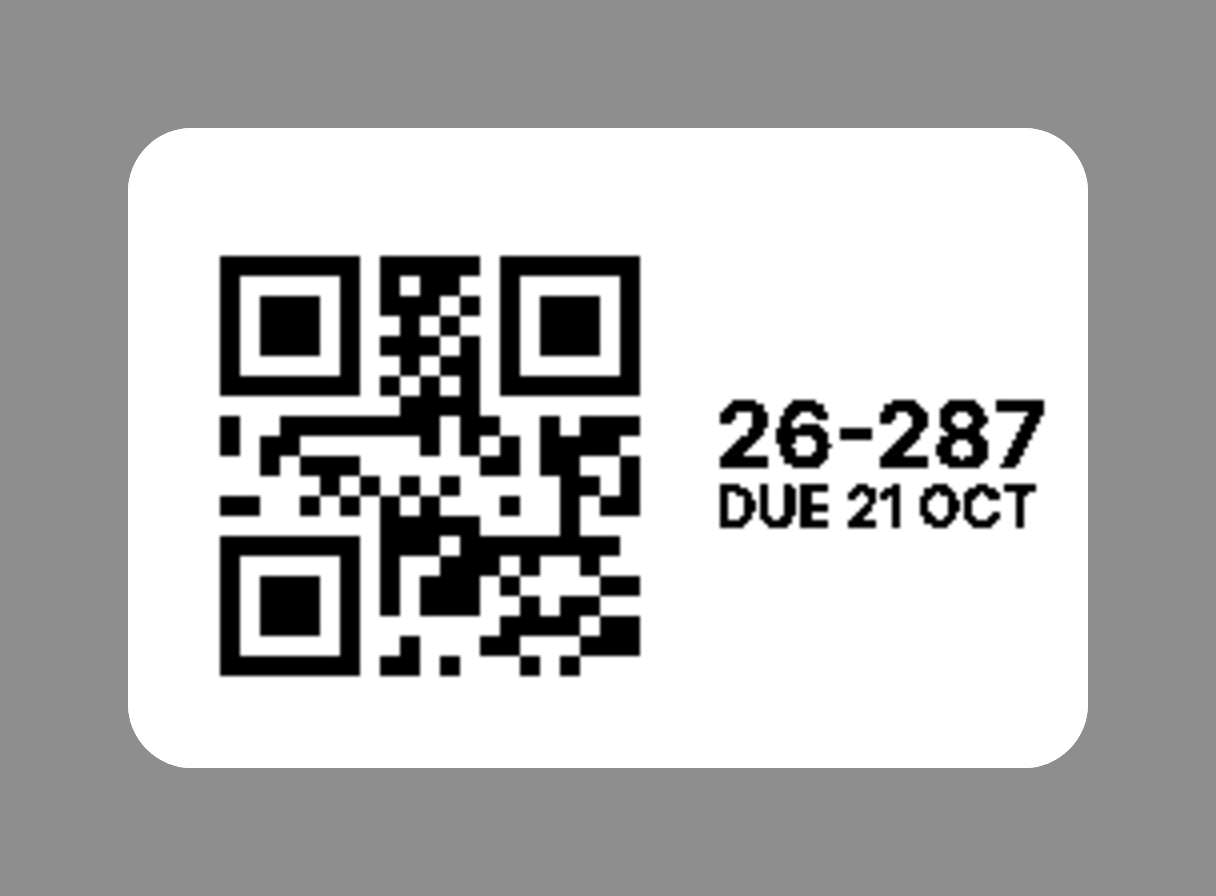
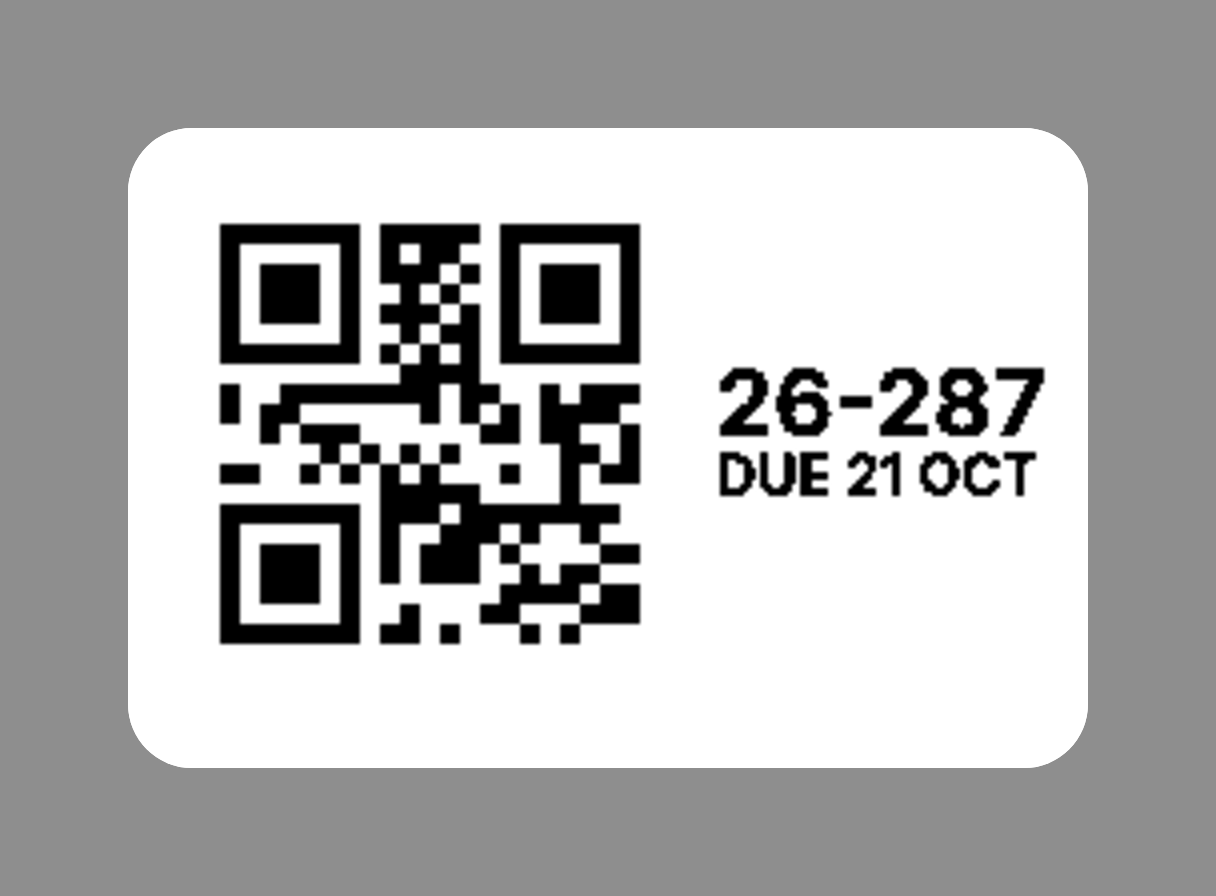
Move the B31 default 0.5 mm up.
The calibration print has more blank paper above the content than below it. Horizontal stays 2 mm left of the 600 px head centre, and a saved per-printer offset is still added on top.

Changed region(s): [[0.1562, 0.25, 0.5312, 0.7812], [0.5938, 0.4062, 0.875, 0.5938]]

diff --git a/sim/print-sim.js b/sim/print-sim.js
@@ -108,7 +108,7 @@ eq(clearMargin(long) && clearMargin(wide), 'spec ink stays about 1 mm inside the
 const cal = L.render({ kind: 'cal_tag', model: 'B31' });
 eq(cal.width === 600 && cal.height === 560 && cal.lines.length === 0 && cal.qr === '', 'calibration has no JO text and no name');
 function darkAt(img, x, y) { return img.data[(y * img.width + x) * 4] === 0; }
-eq(cal.offsetX === 164 && !darkAt(cal, cal.offsetX + 4, 4) && darkAt(cal, cal.offsetX + 4, 8), 'the B31 calibration border is 2 mm left of the head centre and 0.5 mm down');
+eq(cal.offsetX === 164 && darkAt(cal, cal.offsetX + 20, 0) && !darkAt(cal, cal.offsetX + 20, 4), 'the B31 calibration border is 2 mm left of the head centre and 0.5 mm up');
 const calB1 = L.render({ kind: 'cal_jo', model: 'B1' });
 eq(calB1.offsetX === 72 && darkAt(calB1, calB1.offsetX + 4, 4), 'B1 calibration stays centred on its head');
 
@@ -150,7 +150,7 @@ eq(fs.existsSync(path.join(outDir, 'b31-jo-card.png')), 'PNG renders were writte
 const base = L.render(Object.assign({ model: 'B31' }, card));
 const moved = L.render(Object.assign({ model: 'B31', shiftX: L.px(0.5), shiftY: L.px(-1) }, card));
 eq(moved.offsetX === base.offsetX + L.px(0.5) && moved.qrBox.y === base.qrBox.y - L.px(1), 'a saved offset moves the JO card on the head');
-eq(base.offsetX === Math.round((600 - 240) / 2) + L.px(-2) && L.placeBias('B31').y === L.px(0.5) && L.placeBias('B1').x === 0, 'a B31 label sits 2 mm left of the 600 px head centre and 0.5 mm down');
+eq(base.offsetX === Math.round((600 - 240) / 2) + L.px(-2) && L.placeBias('B31').y === L.px(-0.5) && L.placeBias('B1').x === 0, 'a B31 label sits 2 mm left of the 600 px head centre and 0.5 mm up');
 const cardView = L.preview(base, { scale: 4, smooth: true });
 const tagView = L.preview(L.render(Object.assign({ model: 'B1' }, tag)), { scale: 4, smooth: true });
 const pad = L.px(4) * 4, rad = L.px(2) * 4;
@@ -247,8 +247,8 @@ eq(/printQueue:\s*1/.test(app) && !/printQueue/.test(cached), 'printQueue is a c
 eq(!/printMark\s*:\s*1/.test(app) && !/printEnqueue\s*:\s*1/.test(app) && !/printReprint\s*:\s*1/.test(app), 'print writes are not client reads');
 eq(fast.includes('priceJobCost: 1, printQueue: 1') && !fast.includes('dashboard: 1, printQueue'), 'Fast READS gains printQueue and FAST.CACHE does not');
 eq(dash.includes('listUsers: 1, printQueue: 1') && !dash.includes("action !== 'printQueue'"), 'DashCache READS gains printQueue and the dashboard spec does not');
-eq(index.includes('print.js?v=7') && index.includes('print-label.js?v=6') && index.includes('nav.js?v=20') && index.includes('app.js?v=30') && index.includes('settings.js?v=19') && index.includes('print.css?v=5') && index.includes('app.css?v=38') && index.includes('settings.css?v=10'), 'print assets are cache-busted');
-eq(read('nav.js').includes('print-label.js?v=6') && read('nav.js').includes('print.js?v=7') && read('nav.js').includes('menuHtml'), 'the scanner injects the current label renderer');
+eq(index.includes('print.js?v=7') && index.includes('print-label.js?v=7') && index.includes('nav.js?v=21') && index.includes('app.js?v=30') && index.includes('settings.js?v=19') && index.includes('print.css?v=5') && index.includes('app.css?v=38') && index.includes('settings.css?v=10'), 'print assets are cache-busted');
+eq(read('nav.js').includes('print-label.js?v=7') && read('nav.js').includes('print.js?v=7') && read('nav.js').includes('menuHtml'), 'the scanner injects the current label renderer');
 eq(read('print.js').includes('offsetMm') && read('staff/print-test.html').includes('prOff'), 'offsets are saved per model and shown on the print test page');
 eq(read('staff/print-test.html').includes('OYPLabel.preview') && read('print.js').includes('oyp-qprev'), 'print test and the queue preview the sticker, not the printhead');
 const testPage = read('staff/print-test.html'), testCss = read('print.css');

diff --git a/print-label.js b/print-label.js
@@ -6,7 +6,7 @@
    45 mm blank tail. B1 and B31 print direction is "top", so x is across the label.
    The printer draws columns 0..width-1 and does not centre a narrow bitmap,
    so the image stays the full head. A 30 mm label centred on the B31's 600 px
-   head printed about 2 mm too far right and 0.5 mm too high on a T30*20 roll.
+   head printed about 2 mm too far right, with extra blank above the picture, on a T30*20 roll.
    That measured correction is the B31 default. B1's head is 48 mm / 384 px. */
 (function (root) {
 'use strict';
@@ -75,11 +75,12 @@ function presetOf(kind) {
 /* Where a label sits on the head. The printer does not centre, and a label-width
    image would start at column 0, so the bitmap stays the full head.
    A calibration print centred on the B31's 600 px head (offset 180) put the
-   border about 2 mm right of the T30*20 sticker and about 0.5 mm high.
-   px(-2) is -16 and px(0.5) is 4. A saved offset is added on top of this.
+   border about 2 mm right of the T30*20 sticker, with more blank paper above
+   the picture than below it. px(-2) is -16 and px(-0.5) is -4, so the default
+   moves the print left and up. A saved offset is added on top of this.
    B1 was not in that print; its 384 px head stays centred. */
 function placeBias(model) {
-  if (String(model || '').toUpperCase() === 'B31') return { x: px(-2), y: px(0.5) };
+  if (String(model || '').toUpperCase() === 'B31') return { x: px(-2), y: px(-0.5) };
   return { x: 0, y: 0 };
 }
 function canvasFor(kind, head, model) {

diff --git a/nav.js b/nav.js
@@ -80,7 +80,7 @@ if (typeof document !== 'undefined' && document.createElement) {
   src = cs && (cs.src || '');
   var base = src ? src.replace(/[^/]*$/, '') : '';
   if (base && !document.querySelector('script[src*="print.js"]')) {
-    ['vendor/qrcode.js?v=1', 'vendor/niimbluelib-0.47.1.js?v=1', 'print-label.js?v=6', 'print.js?v=7'].forEach(function (rel) {
+    ['vendor/qrcode.js?v=1', 'vendor/niimbluelib-0.47.1.js?v=1', 'print-label.js?v=7', 'print.js?v=7'].forEach(function (rel) {
       var ps = document.createElement('script');
       ps.src = base + rel;
       ps.async = false;

diff --git a/staff/print-test.html b/staff/print-test.html
@@ -31,9 +31,9 @@
 <div id="toast" class="toast hidden"></div>
 <script src="../vendor/qrcode.js?v=1"></script>
 <script src="../vendor/niimbluelib-0.47.1.js?v=1"></script>
-<script src="../print-label.js?v=6"></script>
+<script src="../print-label.js?v=7"></script>
 <script src="../print.js?v=7"></script>
-<script src="../nav.js?v=20"></script>
+<script src="../nav.js?v=21"></script>
 <script>
 (function () {
   var menu = document.getElementById('menu');

diff --git a/staff/index.html b/staff/index.html
@@ -65,8 +65,8 @@
 <script src="../production.js?v=8"></script>
 <script src="../vendor/qrcode.js?v=1"></script>
 <script src="../vendor/niimbluelib-0.47.1.js?v=1"></script>
-<script src="../print-label.js?v=6"></script>
+<script src="../print-label.js?v=7"></script>
 <script src="../print.js?v=7"></script>
-<script src="../nav.js?v=20"></script>
+<script src="../nav.js?v=21"></script>
 <script src="../app.js?v=30"></script>
 </body></html>
